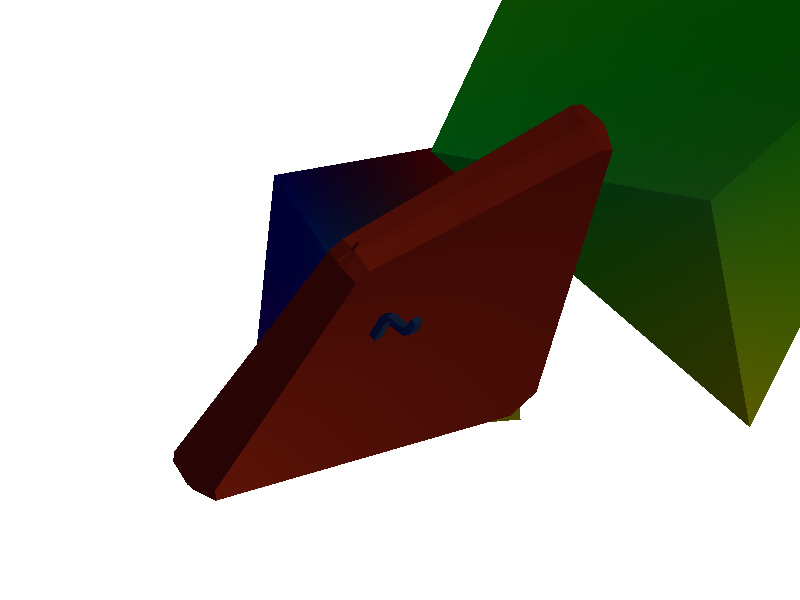
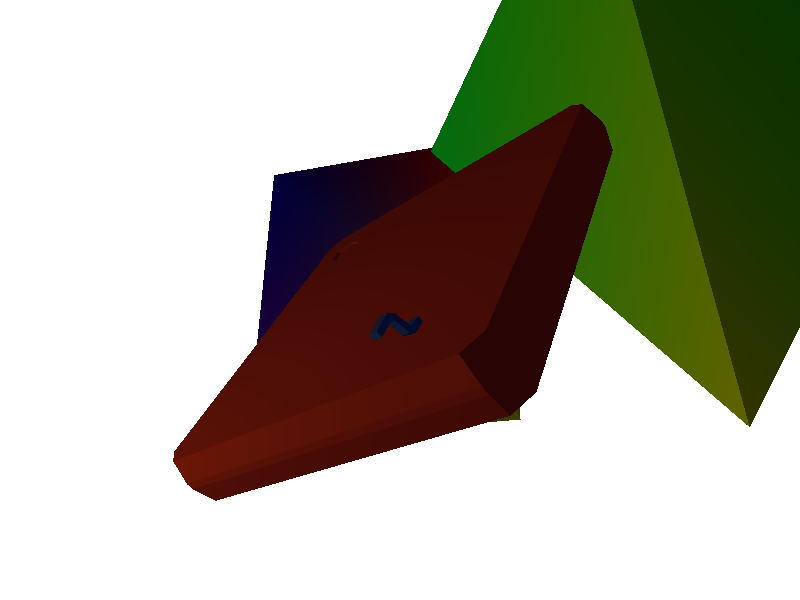
screen-13-cli-1 - WIP 9 - Fix winding order.

Changed region(s): [[0.5312, 0.0, 1.0, 0.72], [0.2188, 0.42, 0.4375, 0.84]]

diff --git a/experimentation/screen-13-cli-1/src/main.rs b/experimentation/screen-13-cli-1/src/main.rs
@@ -147,7 +147,10 @@ fn main() -> Result<(), Box<dyn std::error::Error>> {
     // Create graphics pipeline with shaders
     let pipeline = Arc::new(GraphicPipeline::create(
         &device,
-        GraphicPipelineInfo::default(),
+        GraphicPipelineInfoBuilder::default()
+            // CAD models typically use clockwise winding
+            .front_face(vk::FrontFace::CLOCKWISE)
+            .build(),
         [
             Shader::new_vertex(vert_spirv.as_slice()),
             Shader::new_fragment(frag_spirv.as_slice()),
